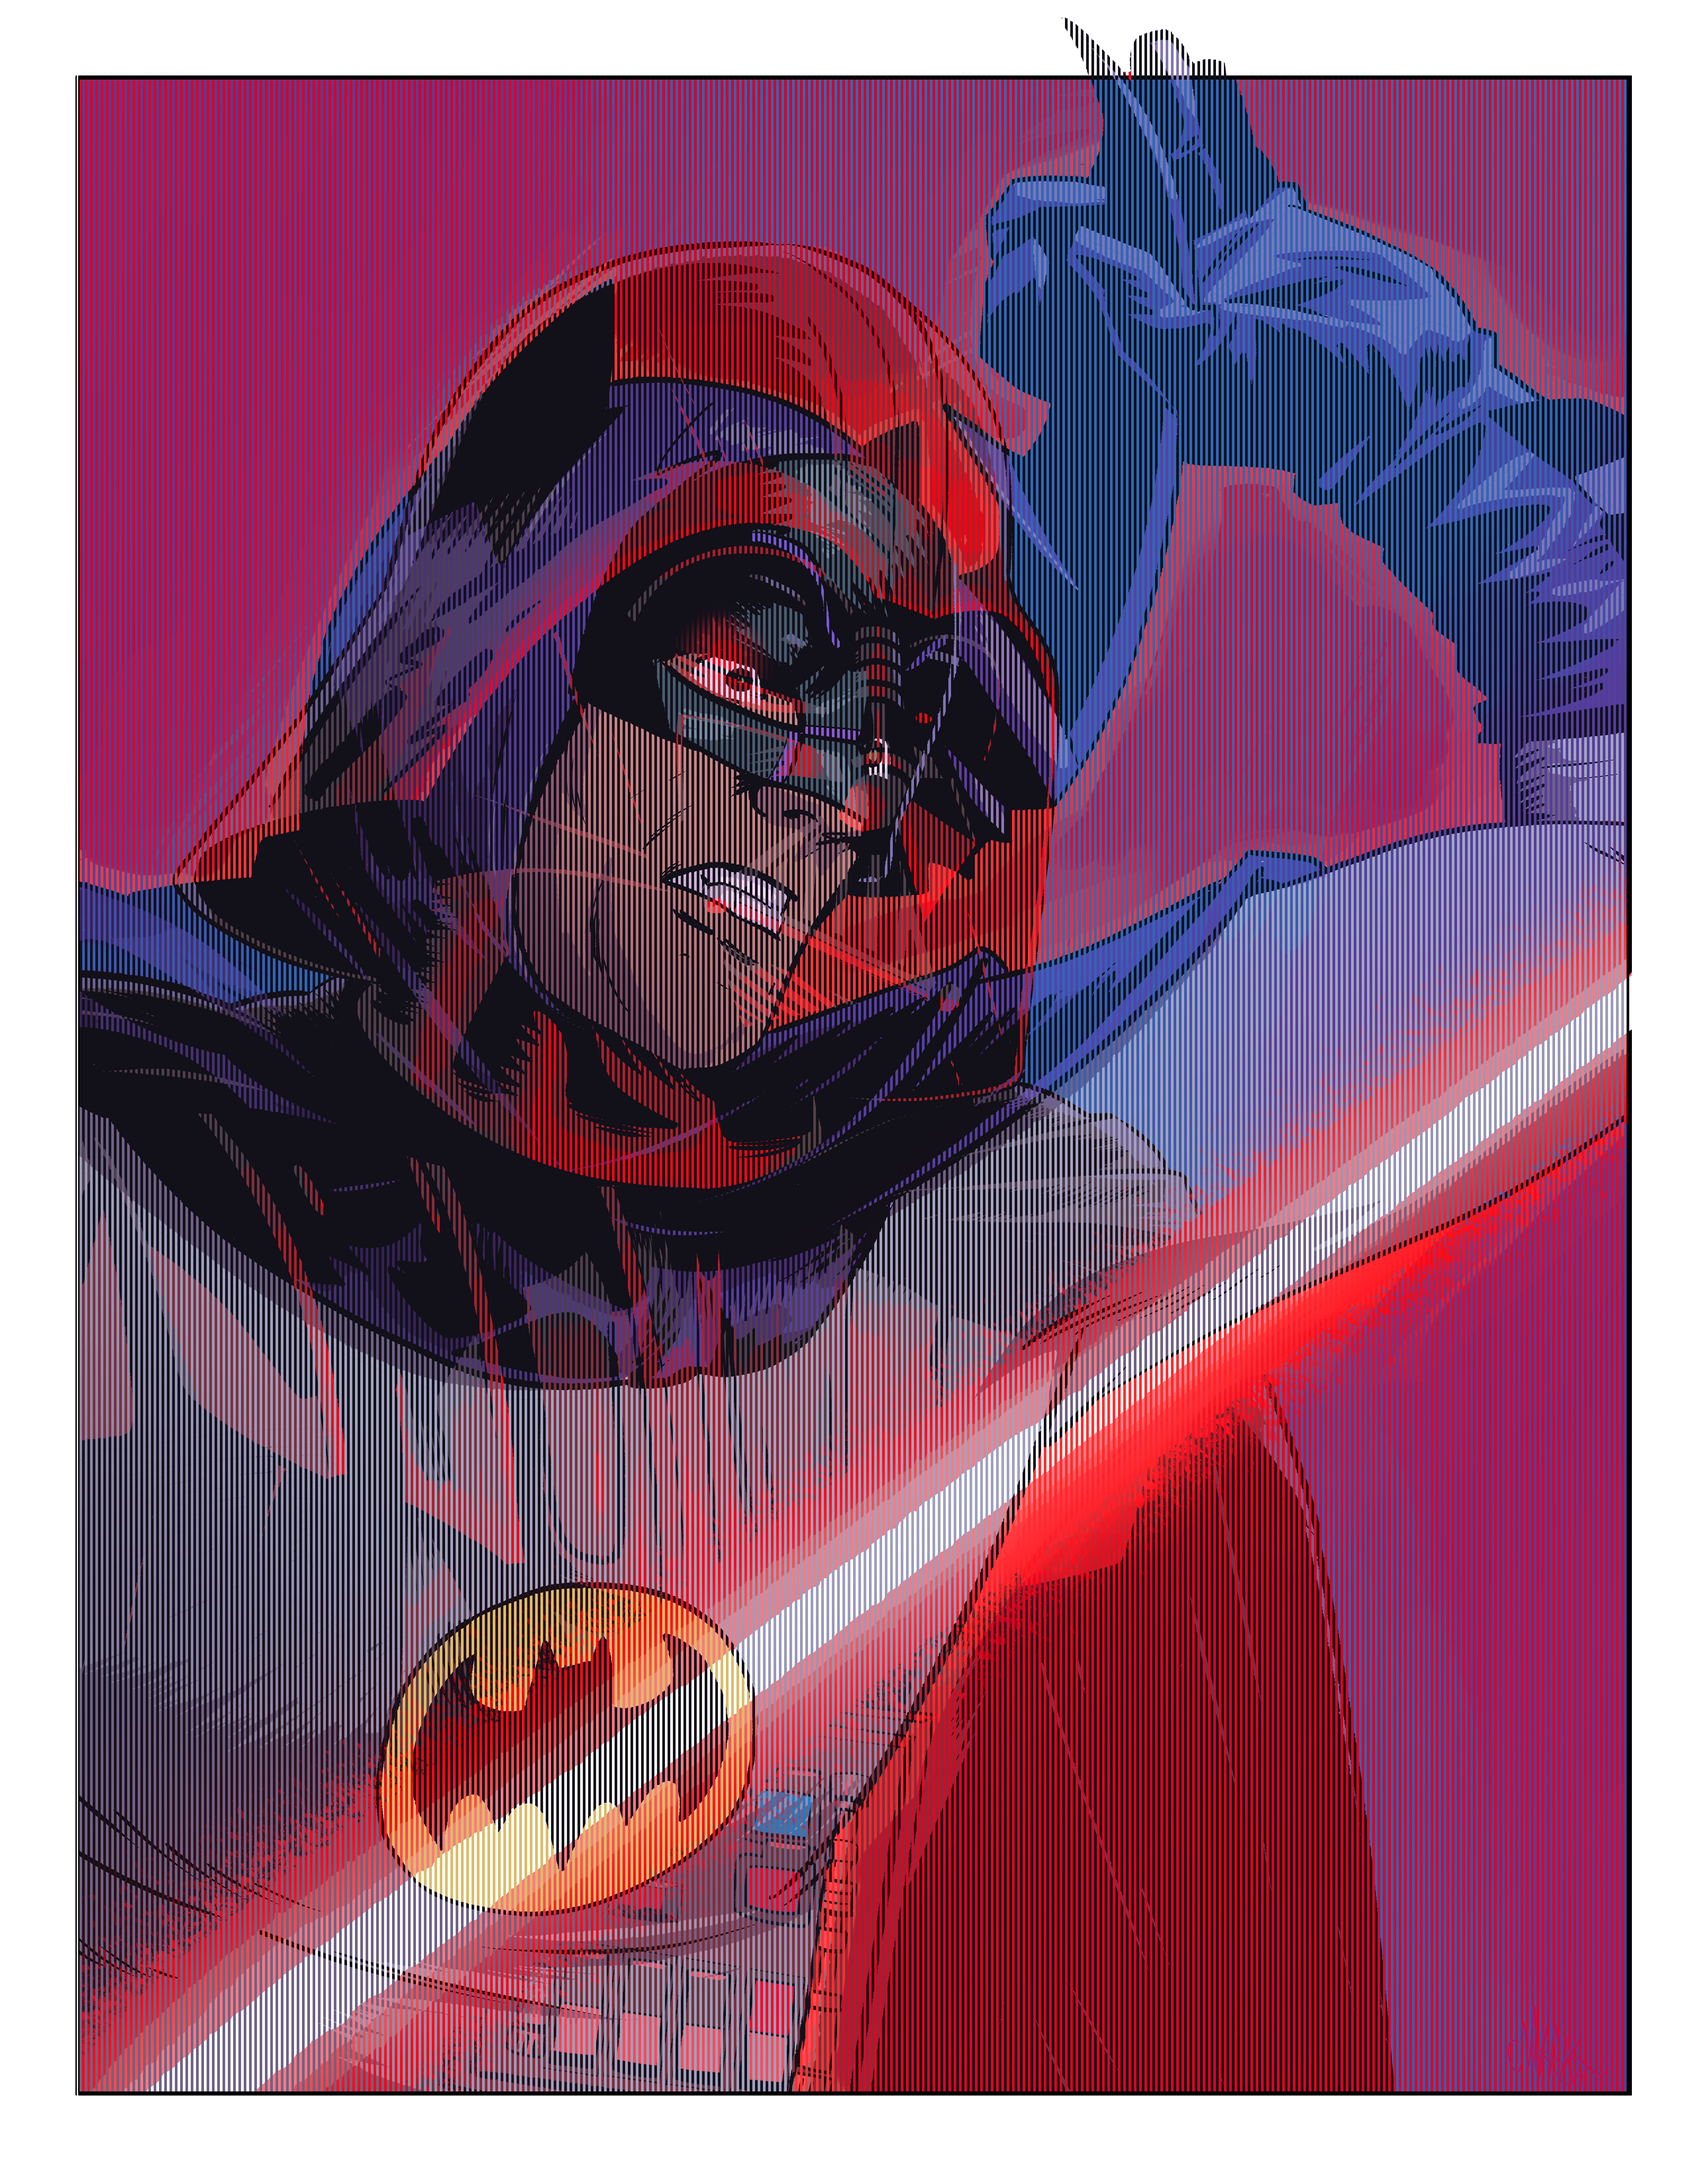
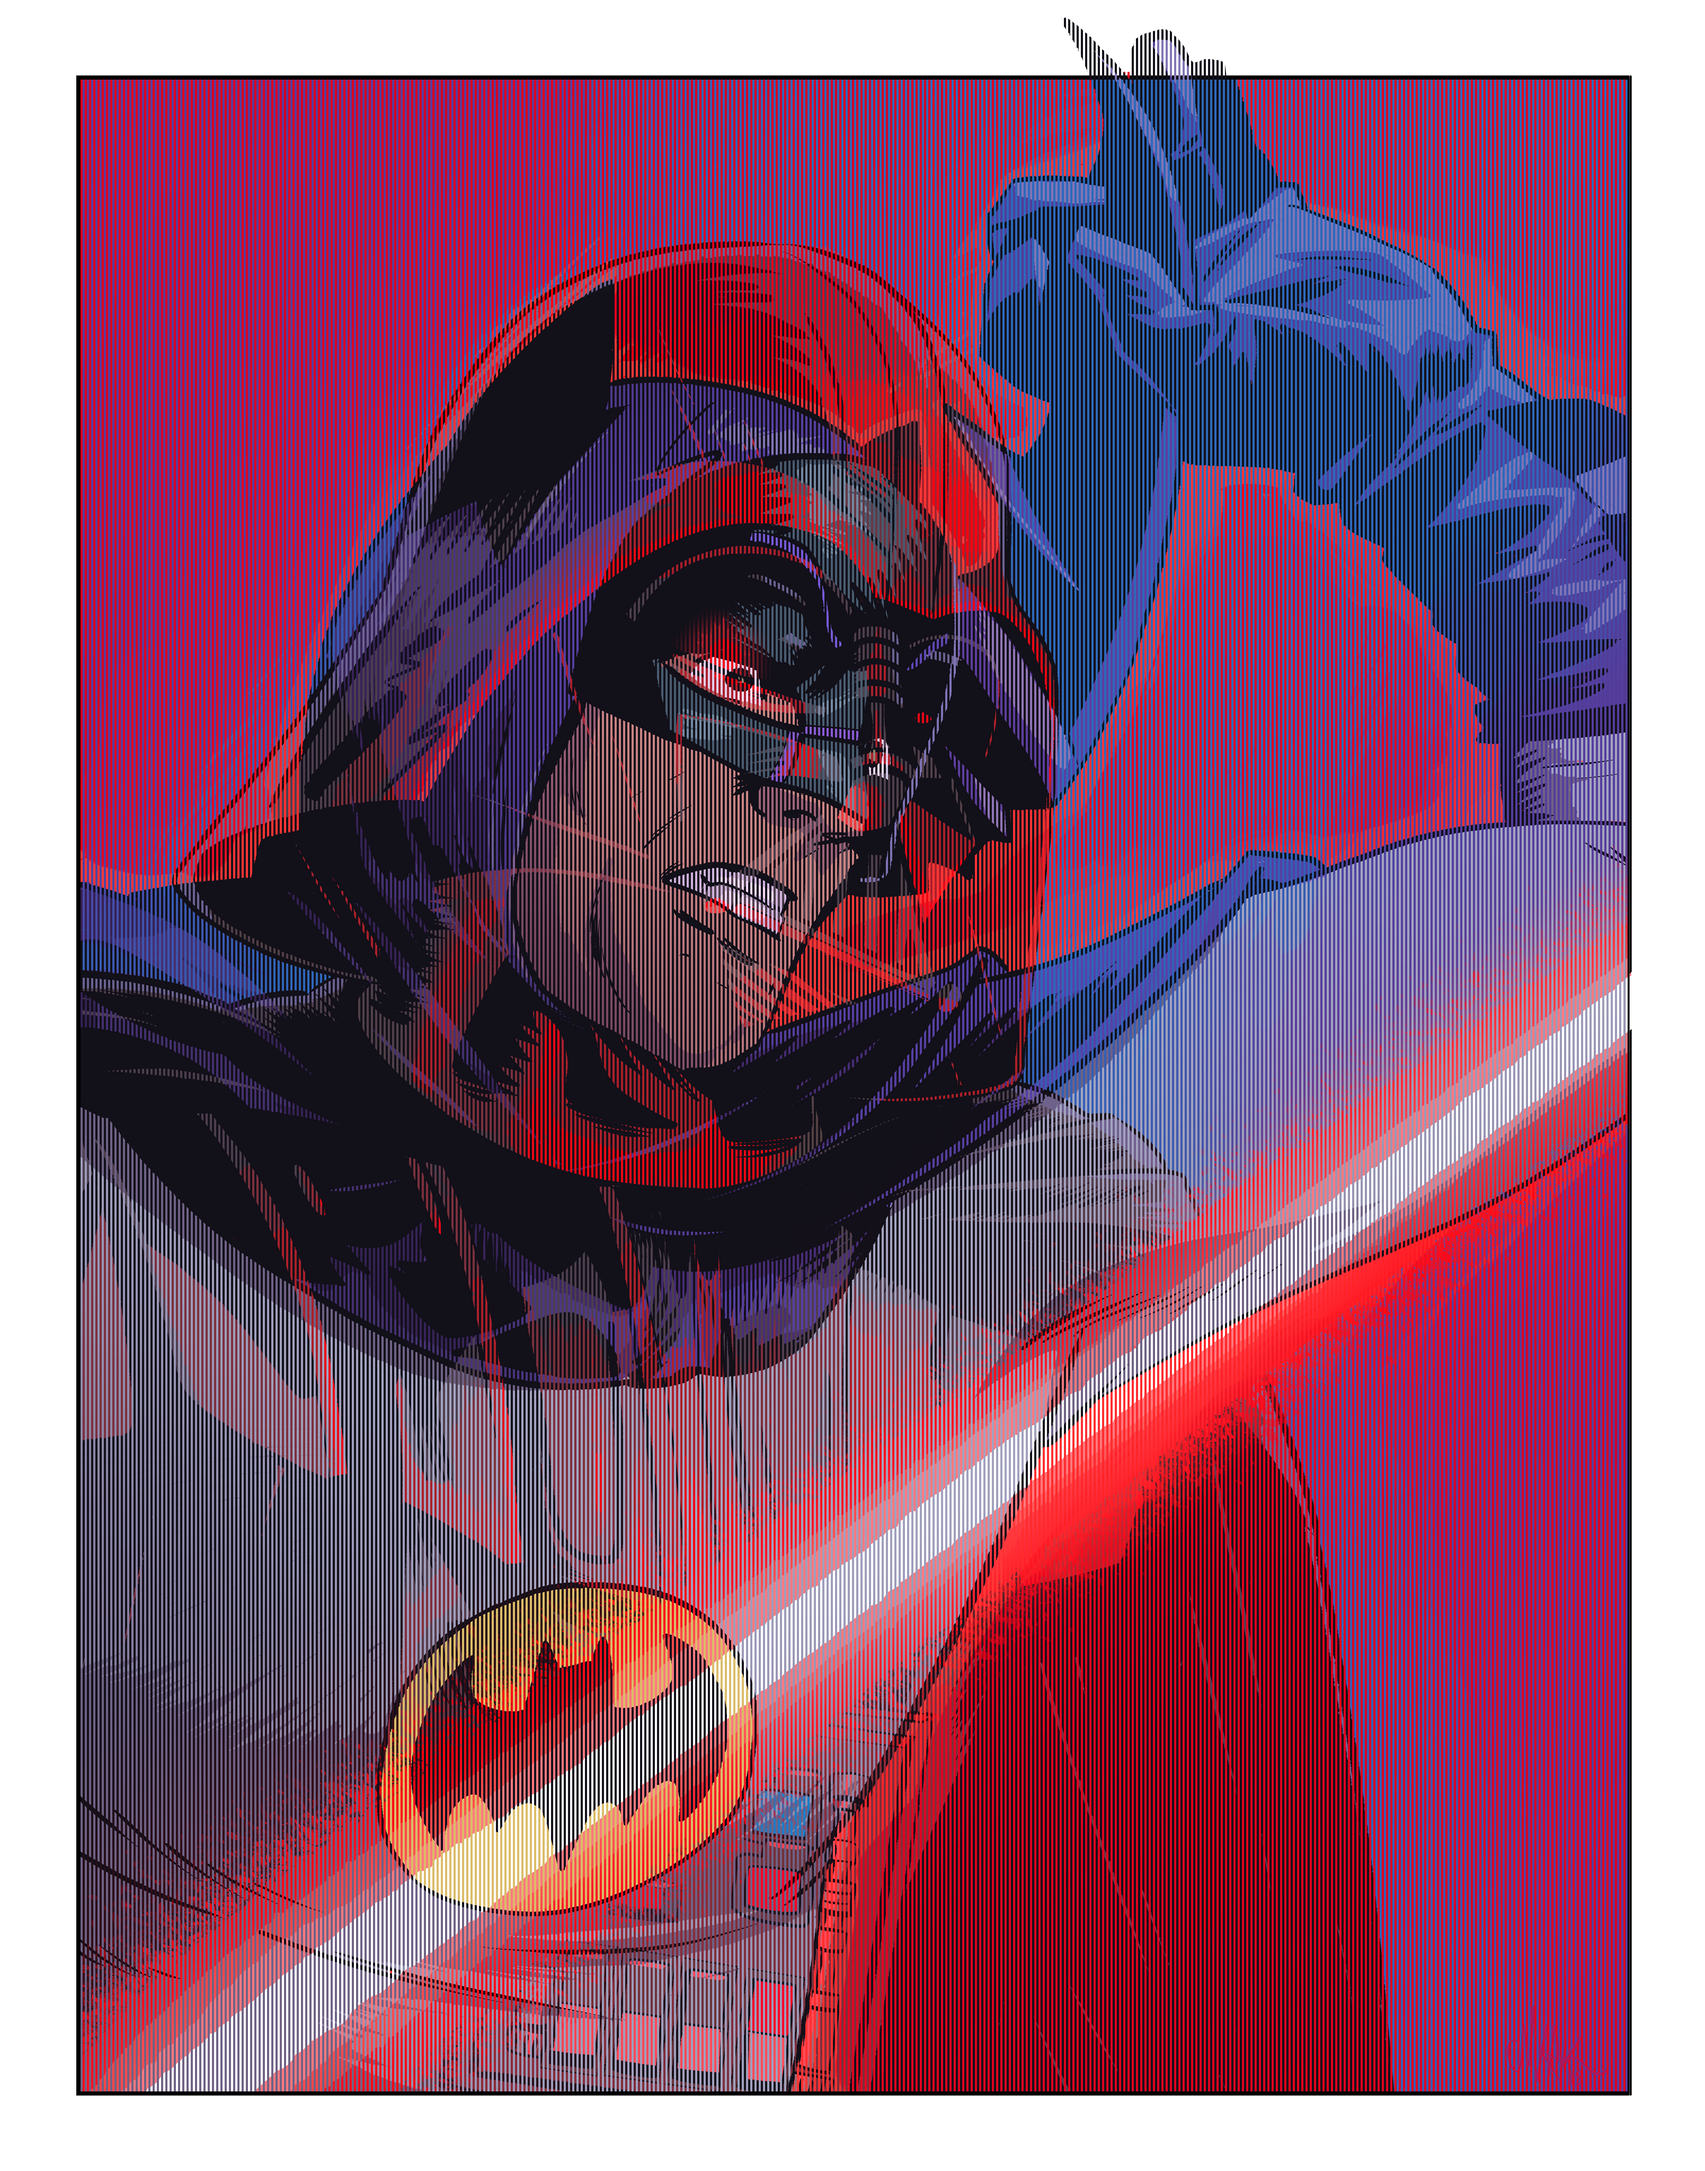
add measurements

diff --git a/lenticularPython/lentigram.py b/lenticularPython/lentigram.py
@@ -8,6 +8,8 @@ imb = Image.open(r"darthvader.png")
 # imb.save('colorsflipped.png')
 width, height = ima.size
 stripwidth = 5
+# 60 LPI
+# 300 PPI
 numstrips = round(width/stripwidth)
 
 print("width" + str(width)+ " stripwidth" + str(stripwidth))
